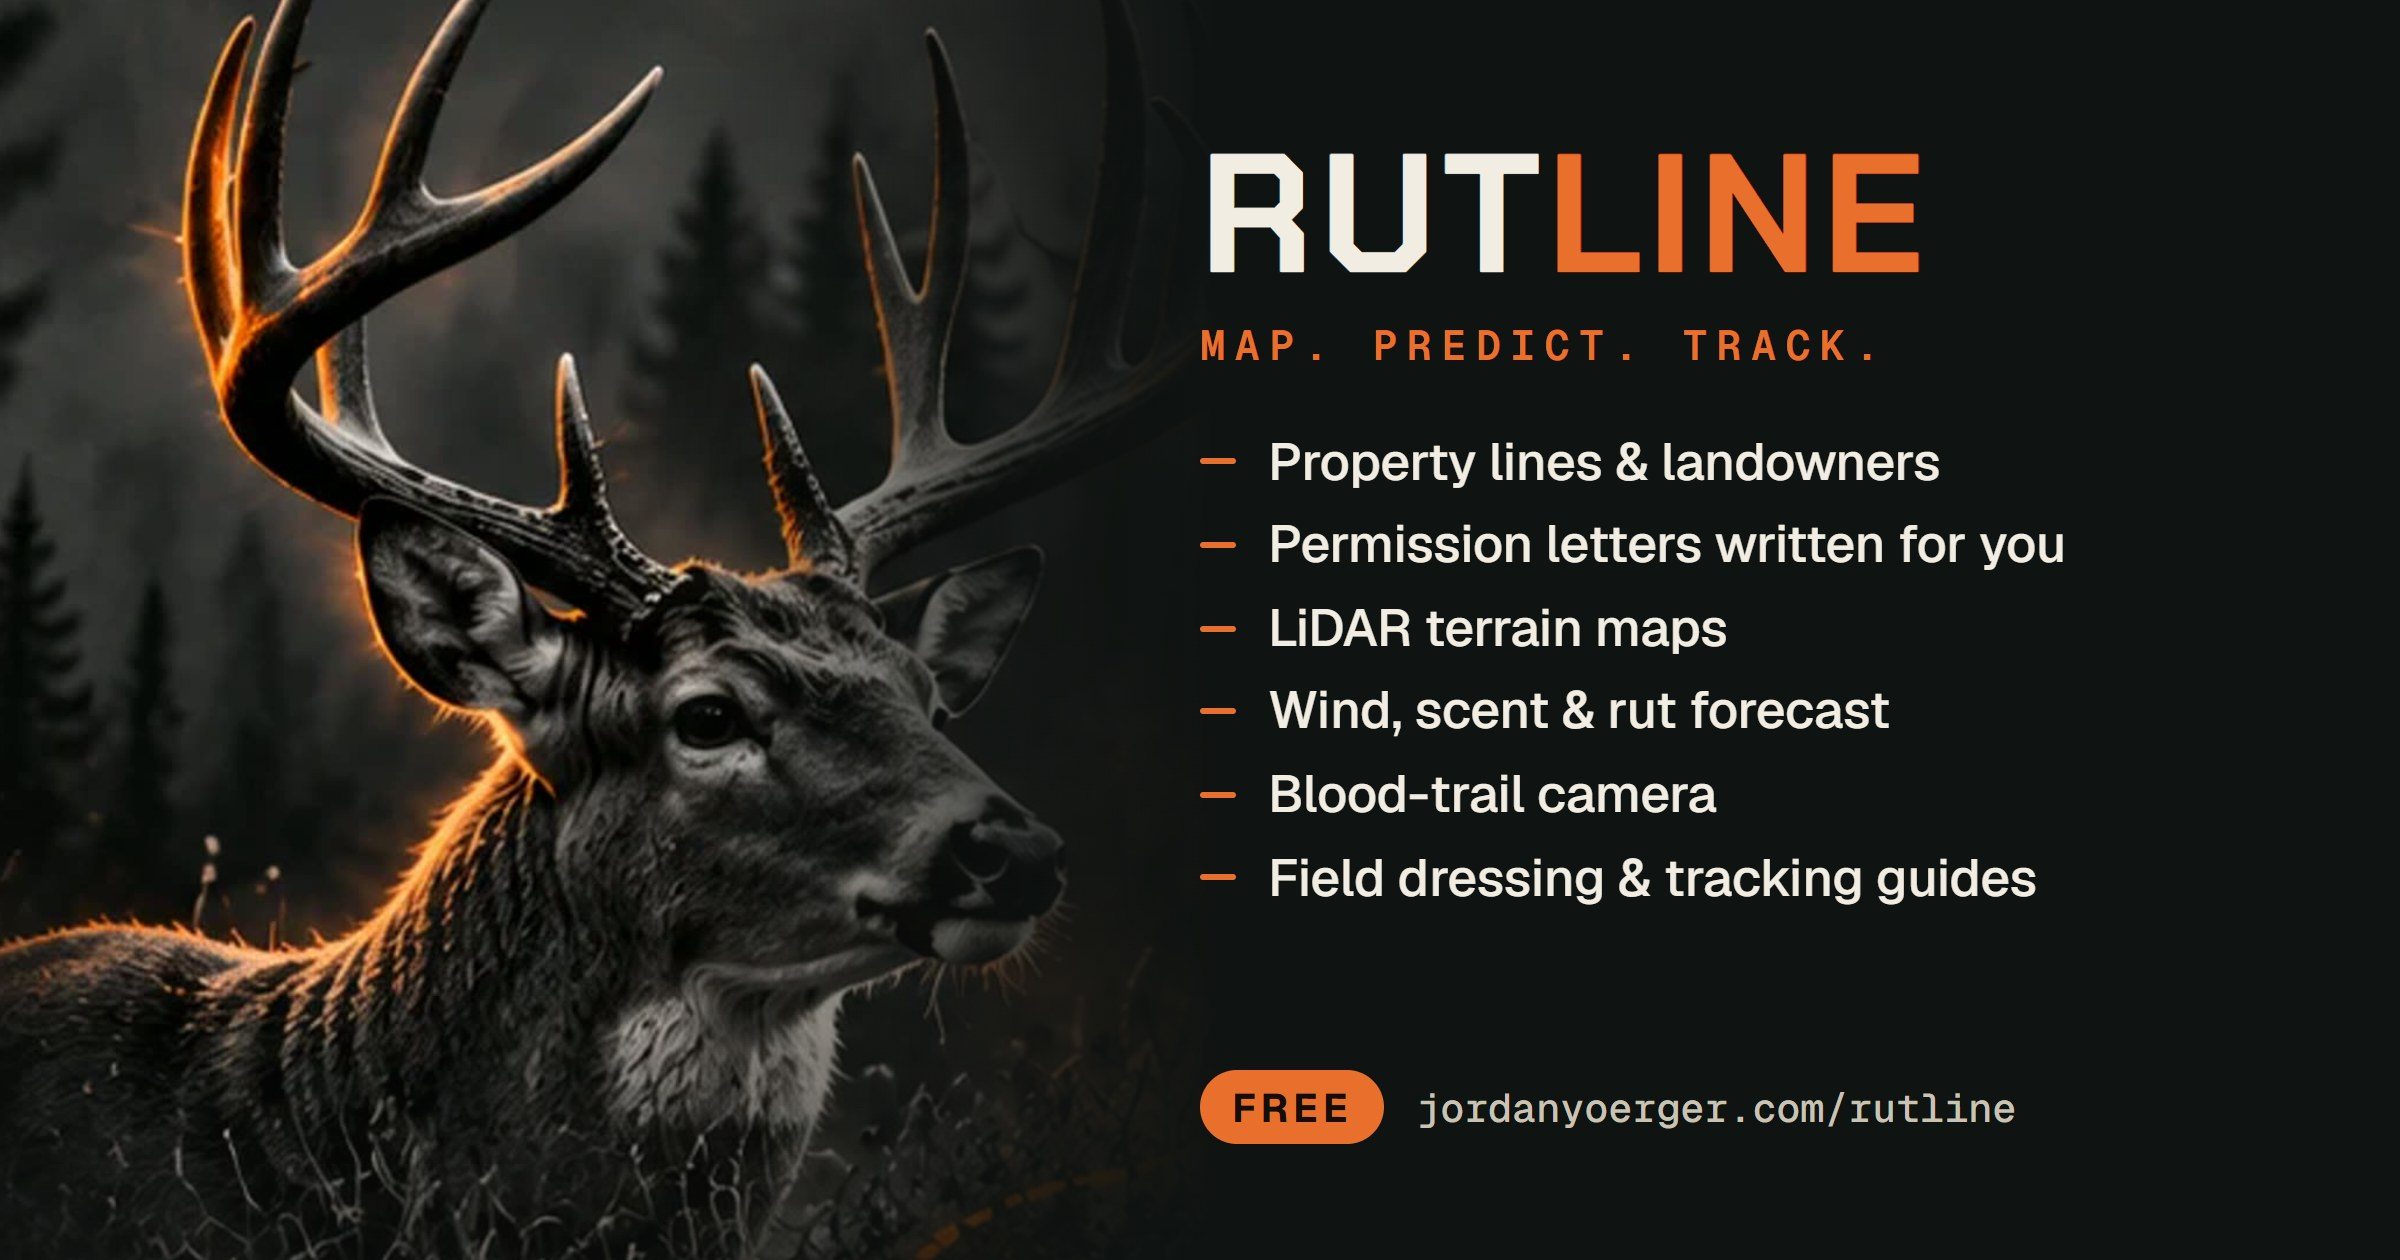
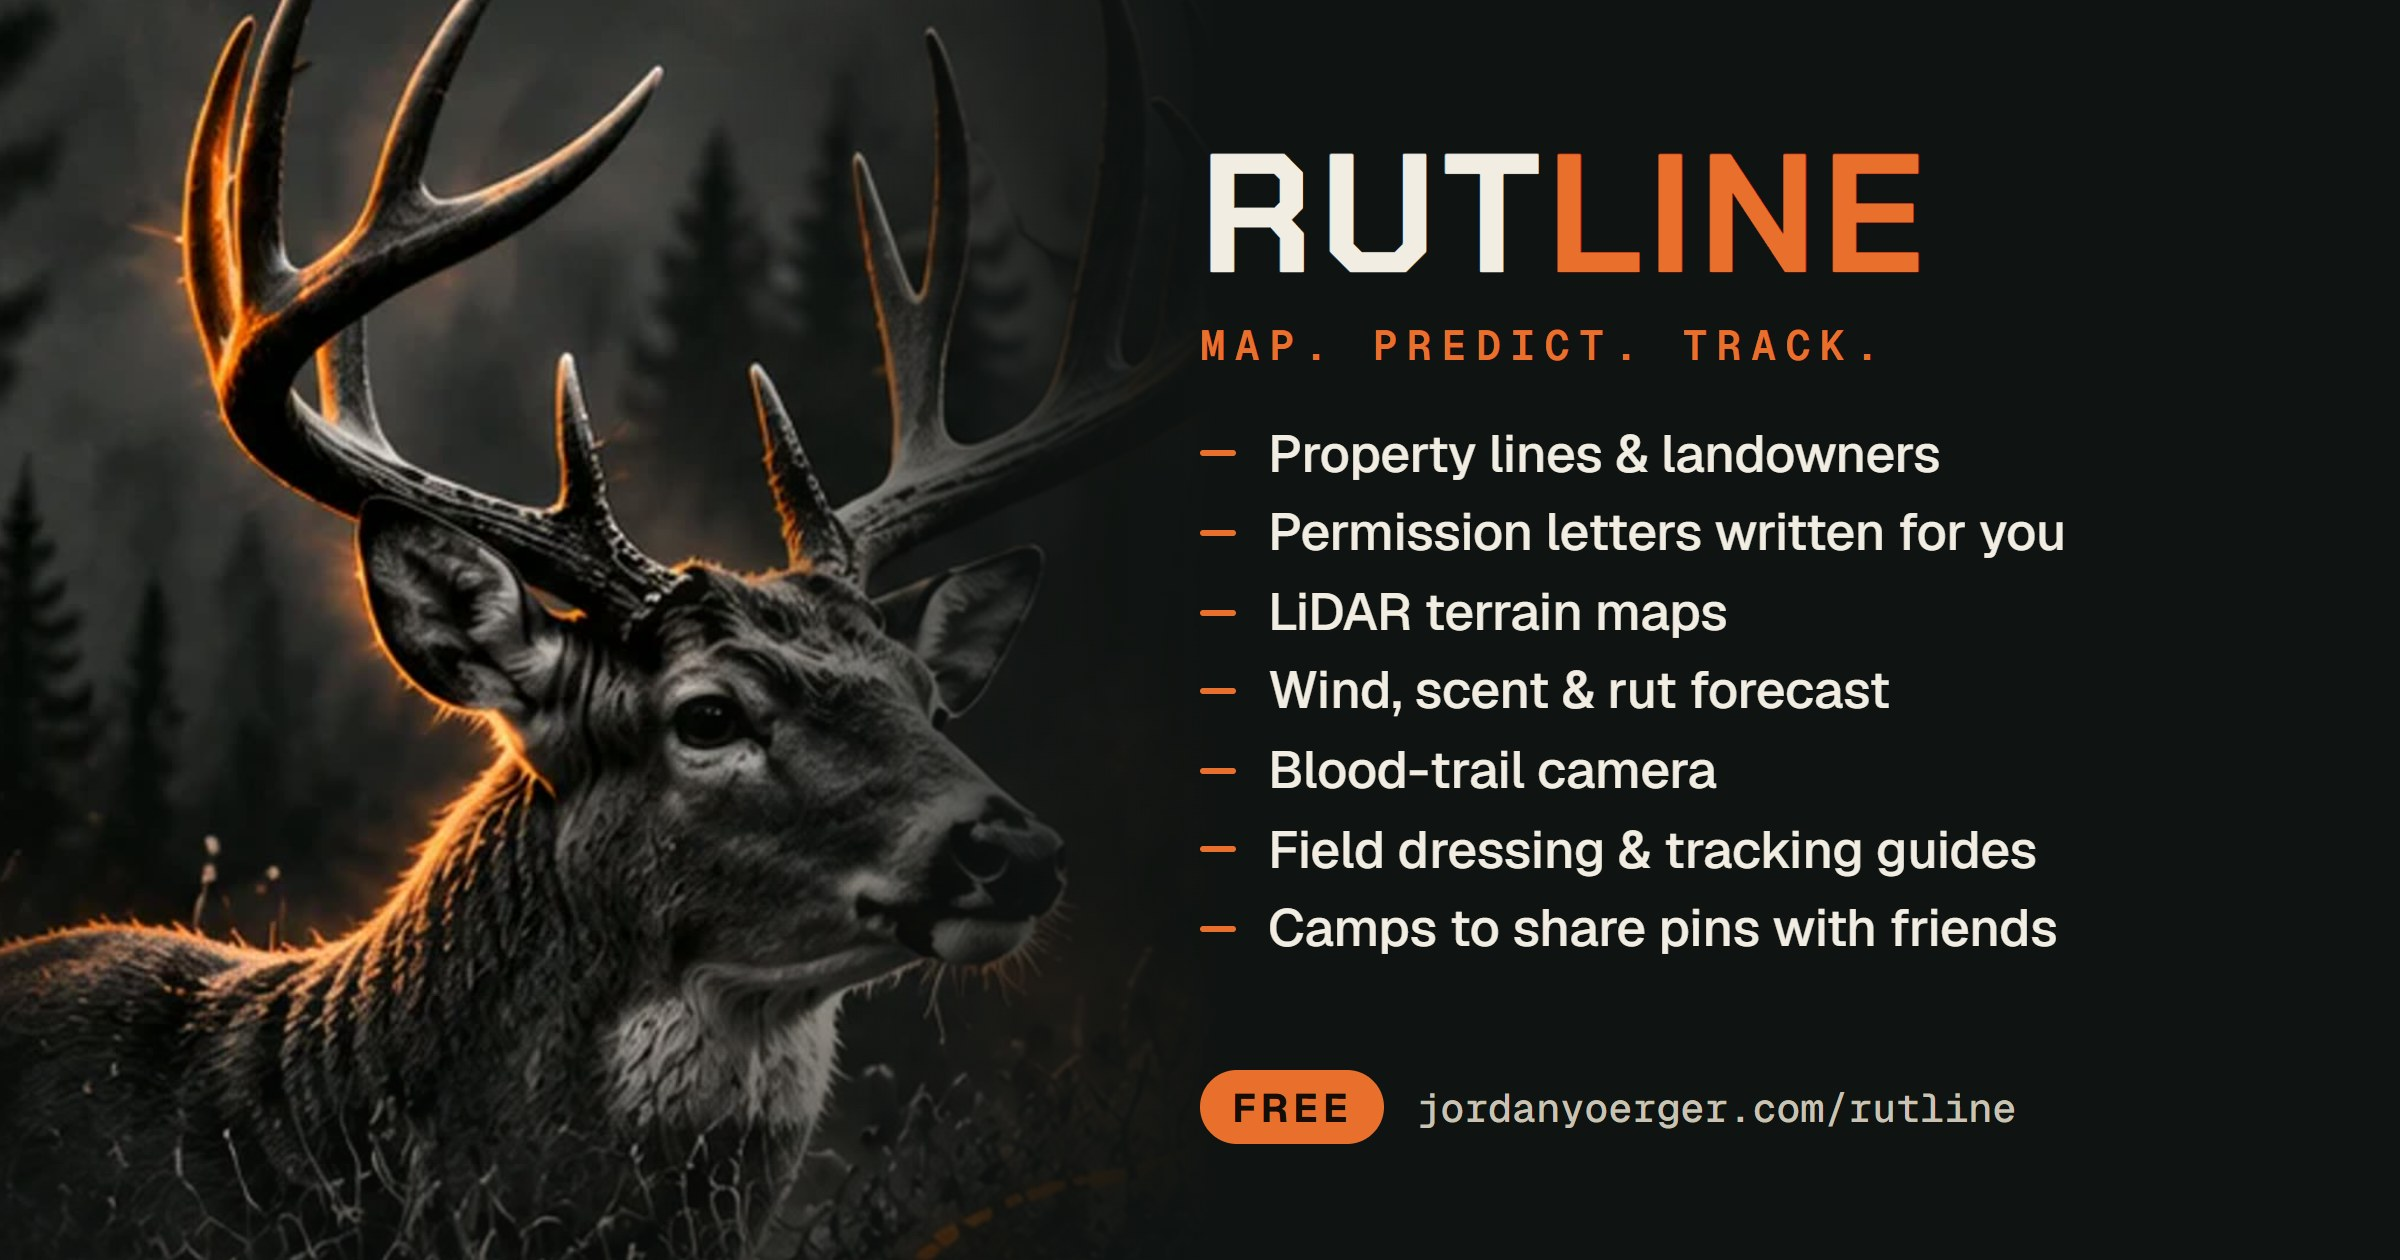
Link preview: add camps
The preview card gains "Camps to share pins with friends" as a seventh
line, every description mentions camps, and og:image moves to ?v=3 so
Facebook fetches the new card.

Changed region(s): [[0.5, 0.3405, 0.875, 0.7738]]

diff --git a/index.html b/index.html
@@ -4,23 +4,23 @@
     <meta charset="UTF-8" />
     <meta name="viewport" content="width=device-width, initial-scale=1, viewport-fit=cover, maximum-scale=1" />
     <title>Rutline</title>
-    <meta name="description" content="The free whitetail app. Property lines and landowners, permission letters, LiDAR terrain, wind and a rut movement forecast, a blood-trail camera and field guides." />
+    <meta name="description" content="The free whitetail app. Property lines and landowners, permission letters, LiDAR terrain, wind and a rut movement forecast, a blood-trail camera, field guides and camps to share with friends." />
     <!-- Link previews (Facebook, Messenger, iMessage, X). Image is 1200x630 @2x, made by tools/og-card.mjs -->
     <meta property="og:type" content="website" />
     <meta property="og:site_name" content="Rutline" />
     <meta property="og:title" content="Rutline: the free whitetail hunting app" />
-    <meta property="og:description" content="Property lines and landowners, permission letters written for you, LiDAR terrain maps, wind and a rut movement forecast, a blood-trail camera and field dressing guides. Free on iPhone and Android." />
+    <meta property="og:description" content="Property lines and landowners, permission letters written for you, LiDAR terrain maps, wind and a rut movement forecast, a blood-trail camera, field dressing guides and camps to share pins with friends. Free on iPhone and Android." />
     <meta property="og:url" content="https://jordanyoerger.com/rutline/" />
     <!-- Bump ?v= whenever og.jpg changes so Facebook fetches the new image -->
-    <meta property="og:image" content="https://jordanyoerger.com/rutline/brand/og.jpg?v=2" />
+    <meta property="og:image" content="https://jordanyoerger.com/rutline/brand/og.jpg?v=3" />
     <meta property="og:image:type" content="image/jpeg" />
     <meta property="og:image:width" content="2400" />
     <meta property="og:image:height" content="1260" />
-    <meta property="og:image:alt" content="Rutline: a whitetail buck beside the app's features. Property lines and landowners, permission letters written for you, LiDAR terrain maps, wind, scent and rut forecast, blood-trail camera, field dressing and tracking guides. Free." />
+    <meta property="og:image:alt" content="Rutline: a whitetail buck beside the app's features. Property lines and landowners, permission letters written for you, LiDAR terrain maps, wind, scent and rut forecast, blood-trail camera, field dressing and tracking guides, camps to share pins with friends. Free." />
     <meta name="twitter:card" content="summary_large_image" />
     <meta name="twitter:title" content="Rutline: the free whitetail hunting app" />
-    <meta name="twitter:description" content="Property lines, permission letters, LiDAR terrain, a rut forecast, a blood-trail camera and field guides. Free." />
-    <meta name="twitter:image" content="https://jordanyoerger.com/rutline/brand/og.jpg?v=2" />
+    <meta name="twitter:description" content="Property lines, permission letters, LiDAR terrain, a rut forecast, a blood-trail camera, field guides and camps. Free." />
+    <meta name="twitter:image" content="https://jordanyoerger.com/rutline/brand/og.jpg?v=3" />
     <meta name="theme-color" content="#0f1110" />
     <meta name="color-scheme" content="dark" />
     <meta name="mobile-web-app-capable" content="yes" />

diff --git a/tools/og-card.html b/tools/og-card.html
@@ -20,7 +20,7 @@
   .mark { font: 700 84px/0.9 'Chakra Petch', sans-serif; letter-spacing: 0.035em; color: var(--bone); }
   .mark b { color: var(--ember); font-weight: 700; }
   .tag { margin-top: 16px; font: 600 21px/1 'Geist Mono', monospace; letter-spacing: 0.22em; text-transform: uppercase; color: var(--ember); }
-  .list { margin-top: 34px; display: grid; gap: 13px; list-style: none; padding: 0; }
+  .list { margin-top: 30px; display: grid; gap: 11px; list-style: none; padding: 0; }
   .list li { display: flex; align-items: center; gap: 16px; font: 500 26px/1.1 'Geist', sans-serif; color: var(--bone); letter-spacing: -0.005em; white-space: nowrap; }
   .list li::before { content: ''; width: 18px; height: 3px; border-radius: 2px; background: var(--ember); flex: none; }
   .foot { margin-top: auto; display: flex; align-items: center; gap: 16px; }
@@ -42,6 +42,7 @@
         <li>Wind, scent &amp; rut forecast</li>
         <li>Blood-trail camera</li>
         <li>Field dressing &amp; tracking guides</li>
+        <li>Camps to share pins with friends</li>
       </ul>
       <div class="foot"><span class="free">FREE</span><span class="url">jordanyoerger.com/rutline</span></div>
     </div>
